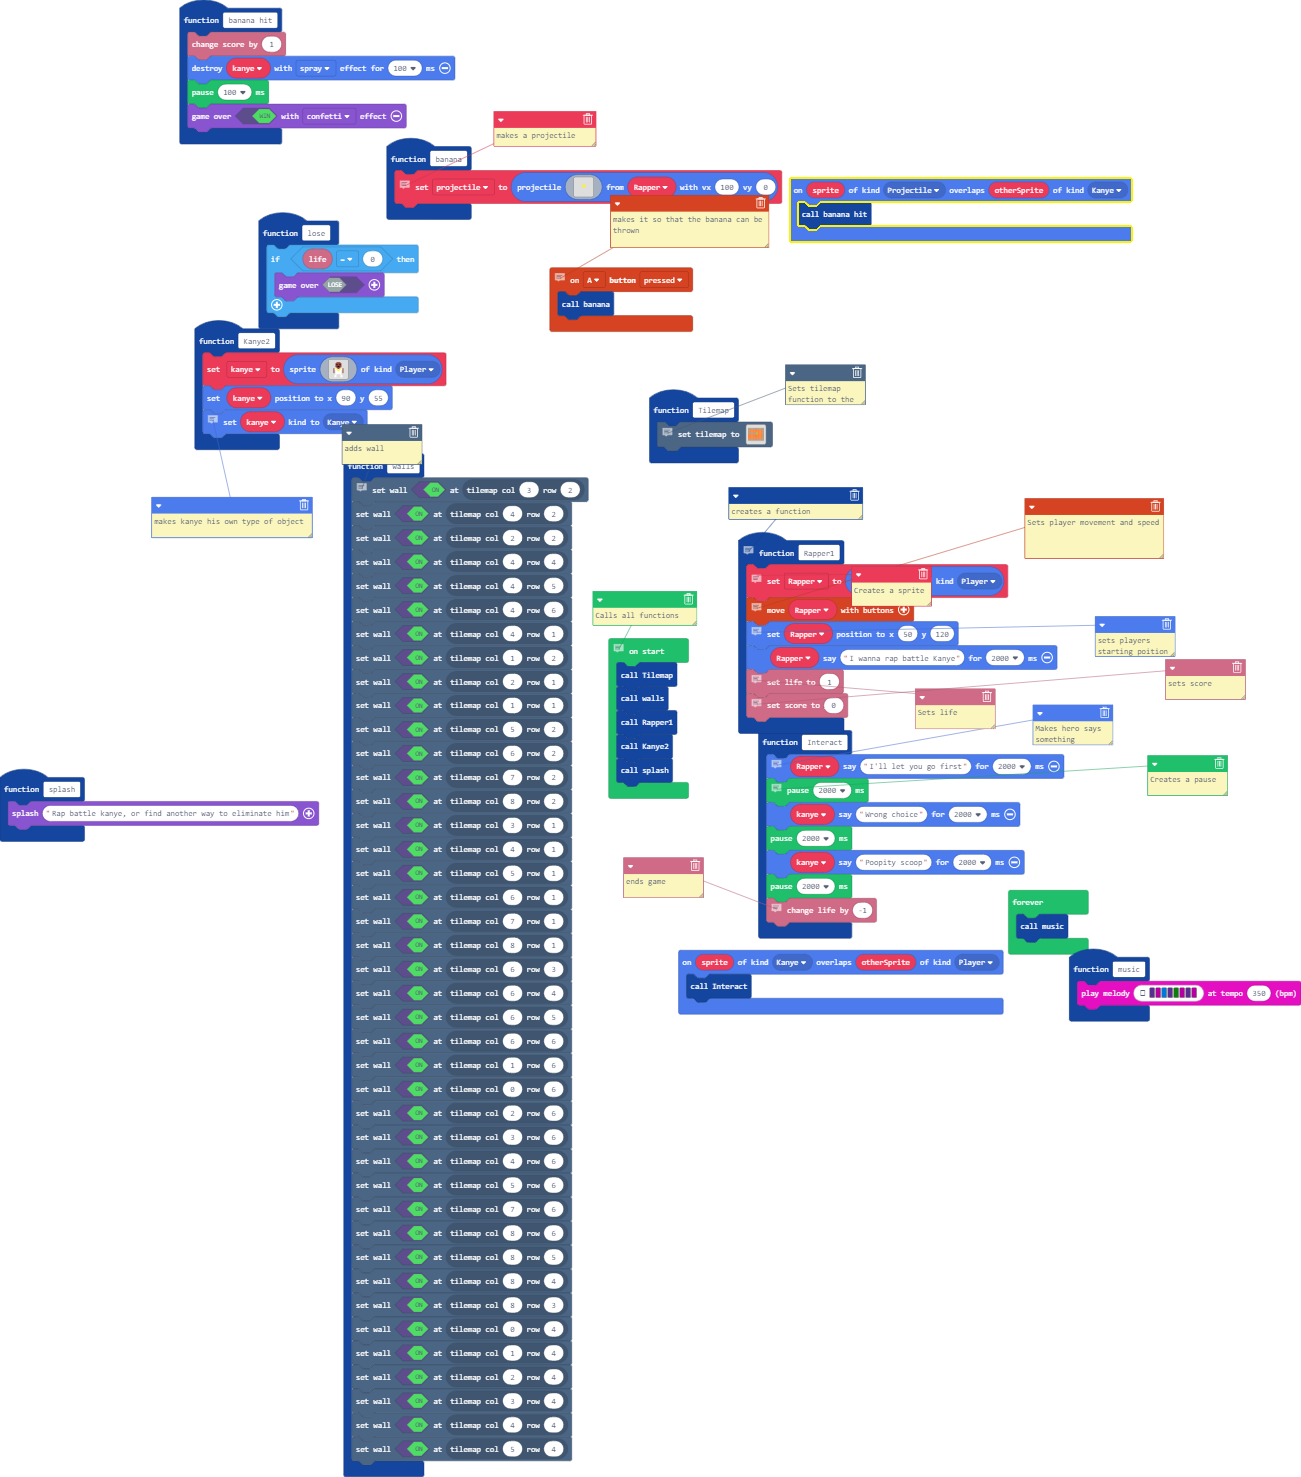
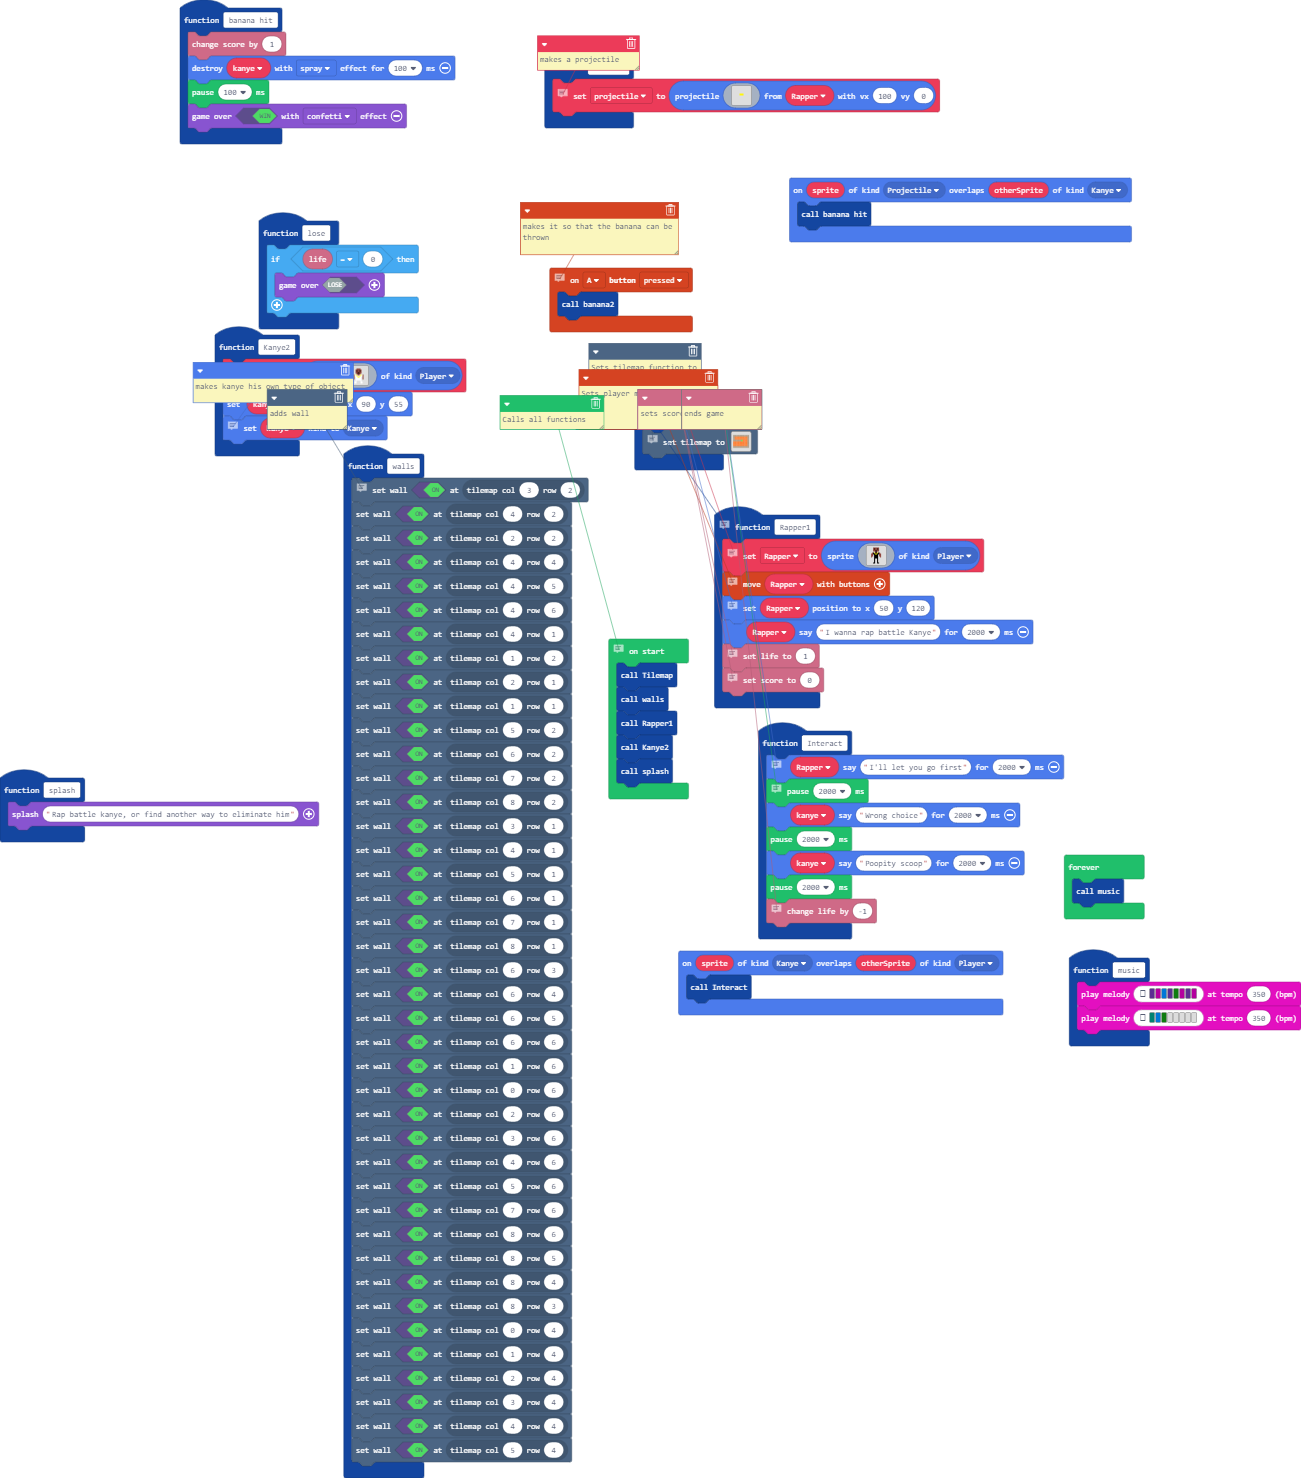
Update main.blocks, main.ts

diff --git a/main.ts b/main.ts
@@ -223,15 +223,6 @@ function Tilemap () {
             TileScale.Sixteen
         ))
 }
-function banana_hit () {
-    info.changeScoreBy(1)
-    kanye.destroy(effects.spray, 100)
-    pause(100)
-    game.over(true, effects.confetti)
-}
-function splash () {
-    game.splash("Rap battle kanye, or find another way to eliminate him")
-}
 function Kanye2 () {
     kanye = sprites.create(img`
 . . . . . . . . . . . . . . . . 
@@ -274,6 +265,27 @@ function Interact () {
     pause(2000)
     // ends game
     info.changeLifeBy(-1)
+}
+function banana2 () {
+    // makes a projectile
+    projectile = sprites.createProjectileFromSprite(img`
+. . . . . . . . . . . . . . . . 
+. . . . . . . . . . . . . . . . 
+. . . . . . . . . . . . . . . . 
+. . . . . . . . . . . . . . . . 
+. . . . . . . . . . . . . . . . 
+. . . . . . . . . . . . . . . . 
+. . . . . . 5 5 5 5 . . . . . . 
+. . . . . . 5 5 5 5 . . . . . . 
+. . . . . . . . . . . . . . . . 
+. . . . . . . . . . . . . . . . 
+. . . . . . . . . . . . . . . . 
+. . . . . . . . . . . . . . . . 
+. . . . . . . . . . . . . . . . 
+. . . . . . . . . . . . . . . . 
+. . . . . . . . . . . . . . . . 
+. . . . . . . . . . . . . . . . 
+`, Rapper, 100, 0)
 }
 function walls () {
     // adds wall
@@ -321,31 +333,20 @@ function walls () {
 }
 // makes it so that the banana can be thrown
 controller.A.onEvent(ControllerButtonEvent.Pressed, function () {
-    banana()
+    banana2()
 })
 function music2 () {
     music.playMelody("D C E D G C D C ", 350)
+    music.playMelody("F E G - - - - - ", 350)
 }
-function banana () {
-    // makes a projectile
-    projectile = sprites.createProjectileFromSprite(img`
-. . . . . . . . . . . . . . . . 
-. . . . . . . . . . . . . . . . 
-. . . . . . . . . . . . . . . . 
-. . . . . . . . . . . . . . . . 
-. . . . . . . . . . . . . . . . 
-. . . . . . . . . . . . . . . . 
-. . . . . . 5 5 5 5 . . . . . . 
-. . . . . . 5 5 5 5 . . . . . . 
-. . . . . . . . . . . . . . . . 
-. . . . . . . . . . . . . . . . 
-. . . . . . . . . . . . . . . . 
-. . . . . . . . . . . . . . . . 
-. . . . . . . . . . . . . . . . 
-. . . . . . . . . . . . . . . . 
-. . . . . . . . . . . . . . . . 
-. . . . . . . . . . . . . . . . 
-`, Rapper, 100, 0)
+function splash () {
+    game.splash("Rap battle kanye, or find another way to eliminate him")
+}
+function banana_hit () {
+    info.changeScoreBy(1)
+    kanye.destroy(effects.spray, 100)
+    pause(100)
+    game.over(true, effects.confetti)
 }
 sprites.onOverlap(SpriteKind.Projectile, SpriteKind.Kanye, function (sprite, otherSprite) {
     banana_hit()
